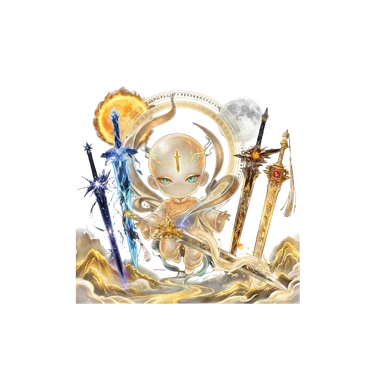
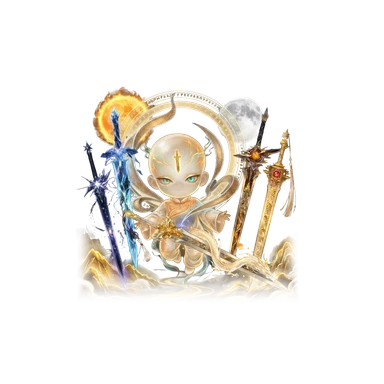
fix(dao-anh): feather hard edges of De Kiem kiep 5 landscape

Changed region(s): [[0.1875, 0.5938, 0.7812, 0.8125]]

diff --git a/src/lib/daoAnhBBox.generated.js b/src/lib/daoAnhBBox.generated.js
@@ -51,7 +51,7 @@ export const DAO_ANH_BBOX = {
   'de_kiem_k2': { cx: 0.502, cy: 0.5029, w: 0.918, h: 0.9004 },
   'de_kiem_k3': { cx: 0.5151, cy: 0.5024, w: 0.6904, h: 0.6768 },
   'de_kiem_k4': { cx: 0.4805, cy: 0.4932, w: 0.6934, h: 0.6621 },
-  'de_kiem_k5': { cx: 0.4893, cy: 0.5088, w: 0.584, h: 0.5664 },
+  'de_kiem_k5': { cx: 0.4854, cy: 0.4946, w: 0.5703, h: 0.5381 },
   'diet_the_loi_viem_dong': { cx: 0.5216, cy: 0.501, w: 0.8595, h: 0.8164 },
   'diet_the_loi_viem_dong_k2': { cx: 0.5065, cy: 0.4731, w: 0.9373, h: 0.8721 },
   'diet_the_loi_viem_dong_k3': { cx: 0.5076, cy: 0.4727, w: 0.9395, h: 0.8672 },
